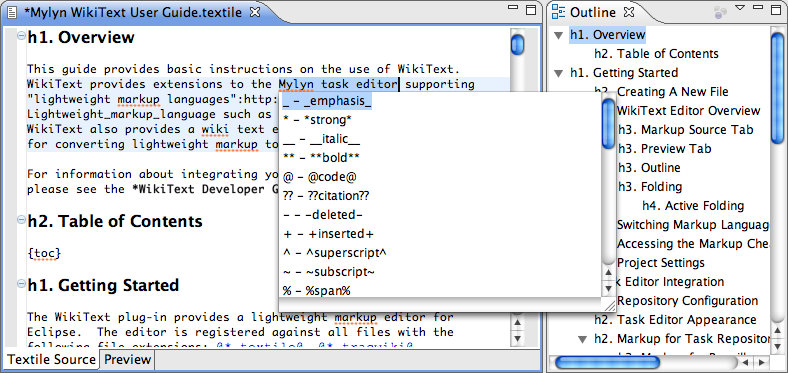
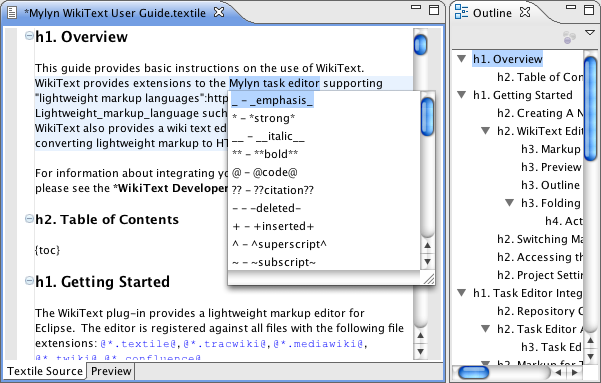
NEW - bug 262059: WikiText new and noteworthy for Mylyn release 3.1 https://bugs.eclipse.org/bugs/show_bug.cgi?id=262059
redo screenshots and fix styles to look  like current N&N

diff --git a/org.eclipse.mylyn.wikitext.ui/docs/new/new-3.1.html b/org.eclipse.mylyn.wikitext.ui/docs/new/new-3.1.html
@@ -11,7 +11,7 @@ table.category1 th {
 	background-color:  #E0D0E6;
 }
 
-newCaption {
+.newCaption {
 	background-color: rgb(224, 208, 230);
 	font-weight: bold;
 }
